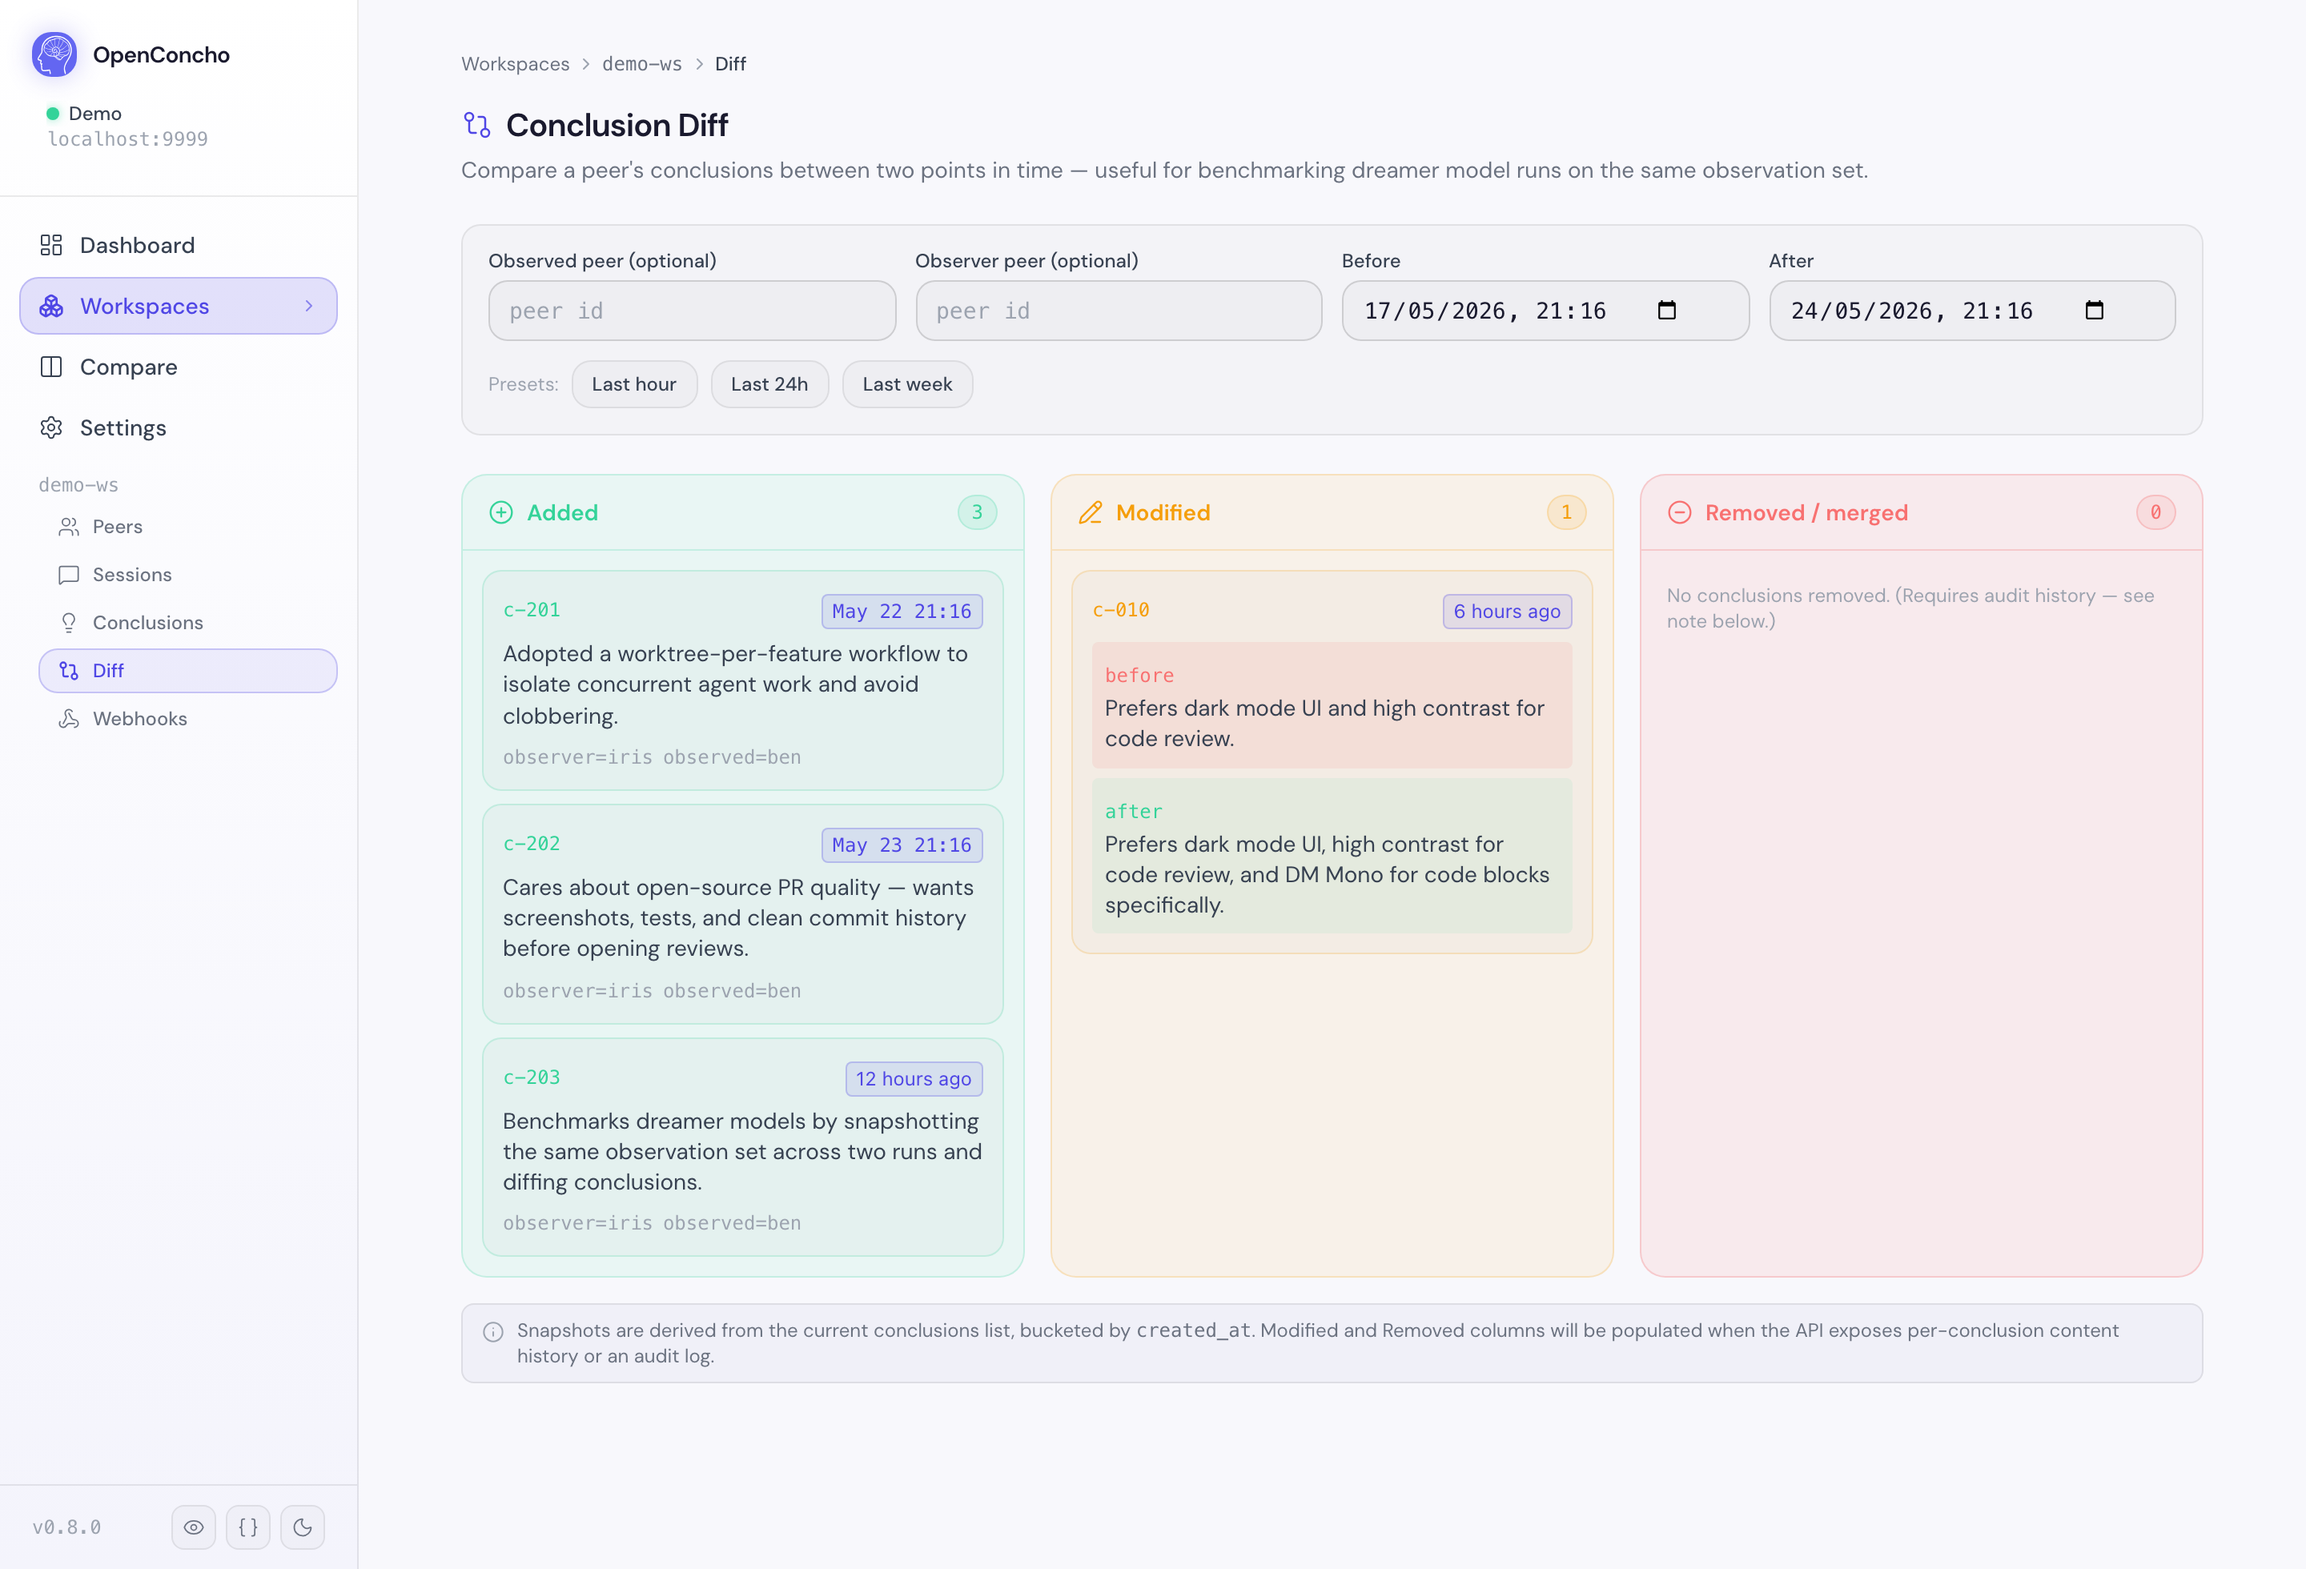
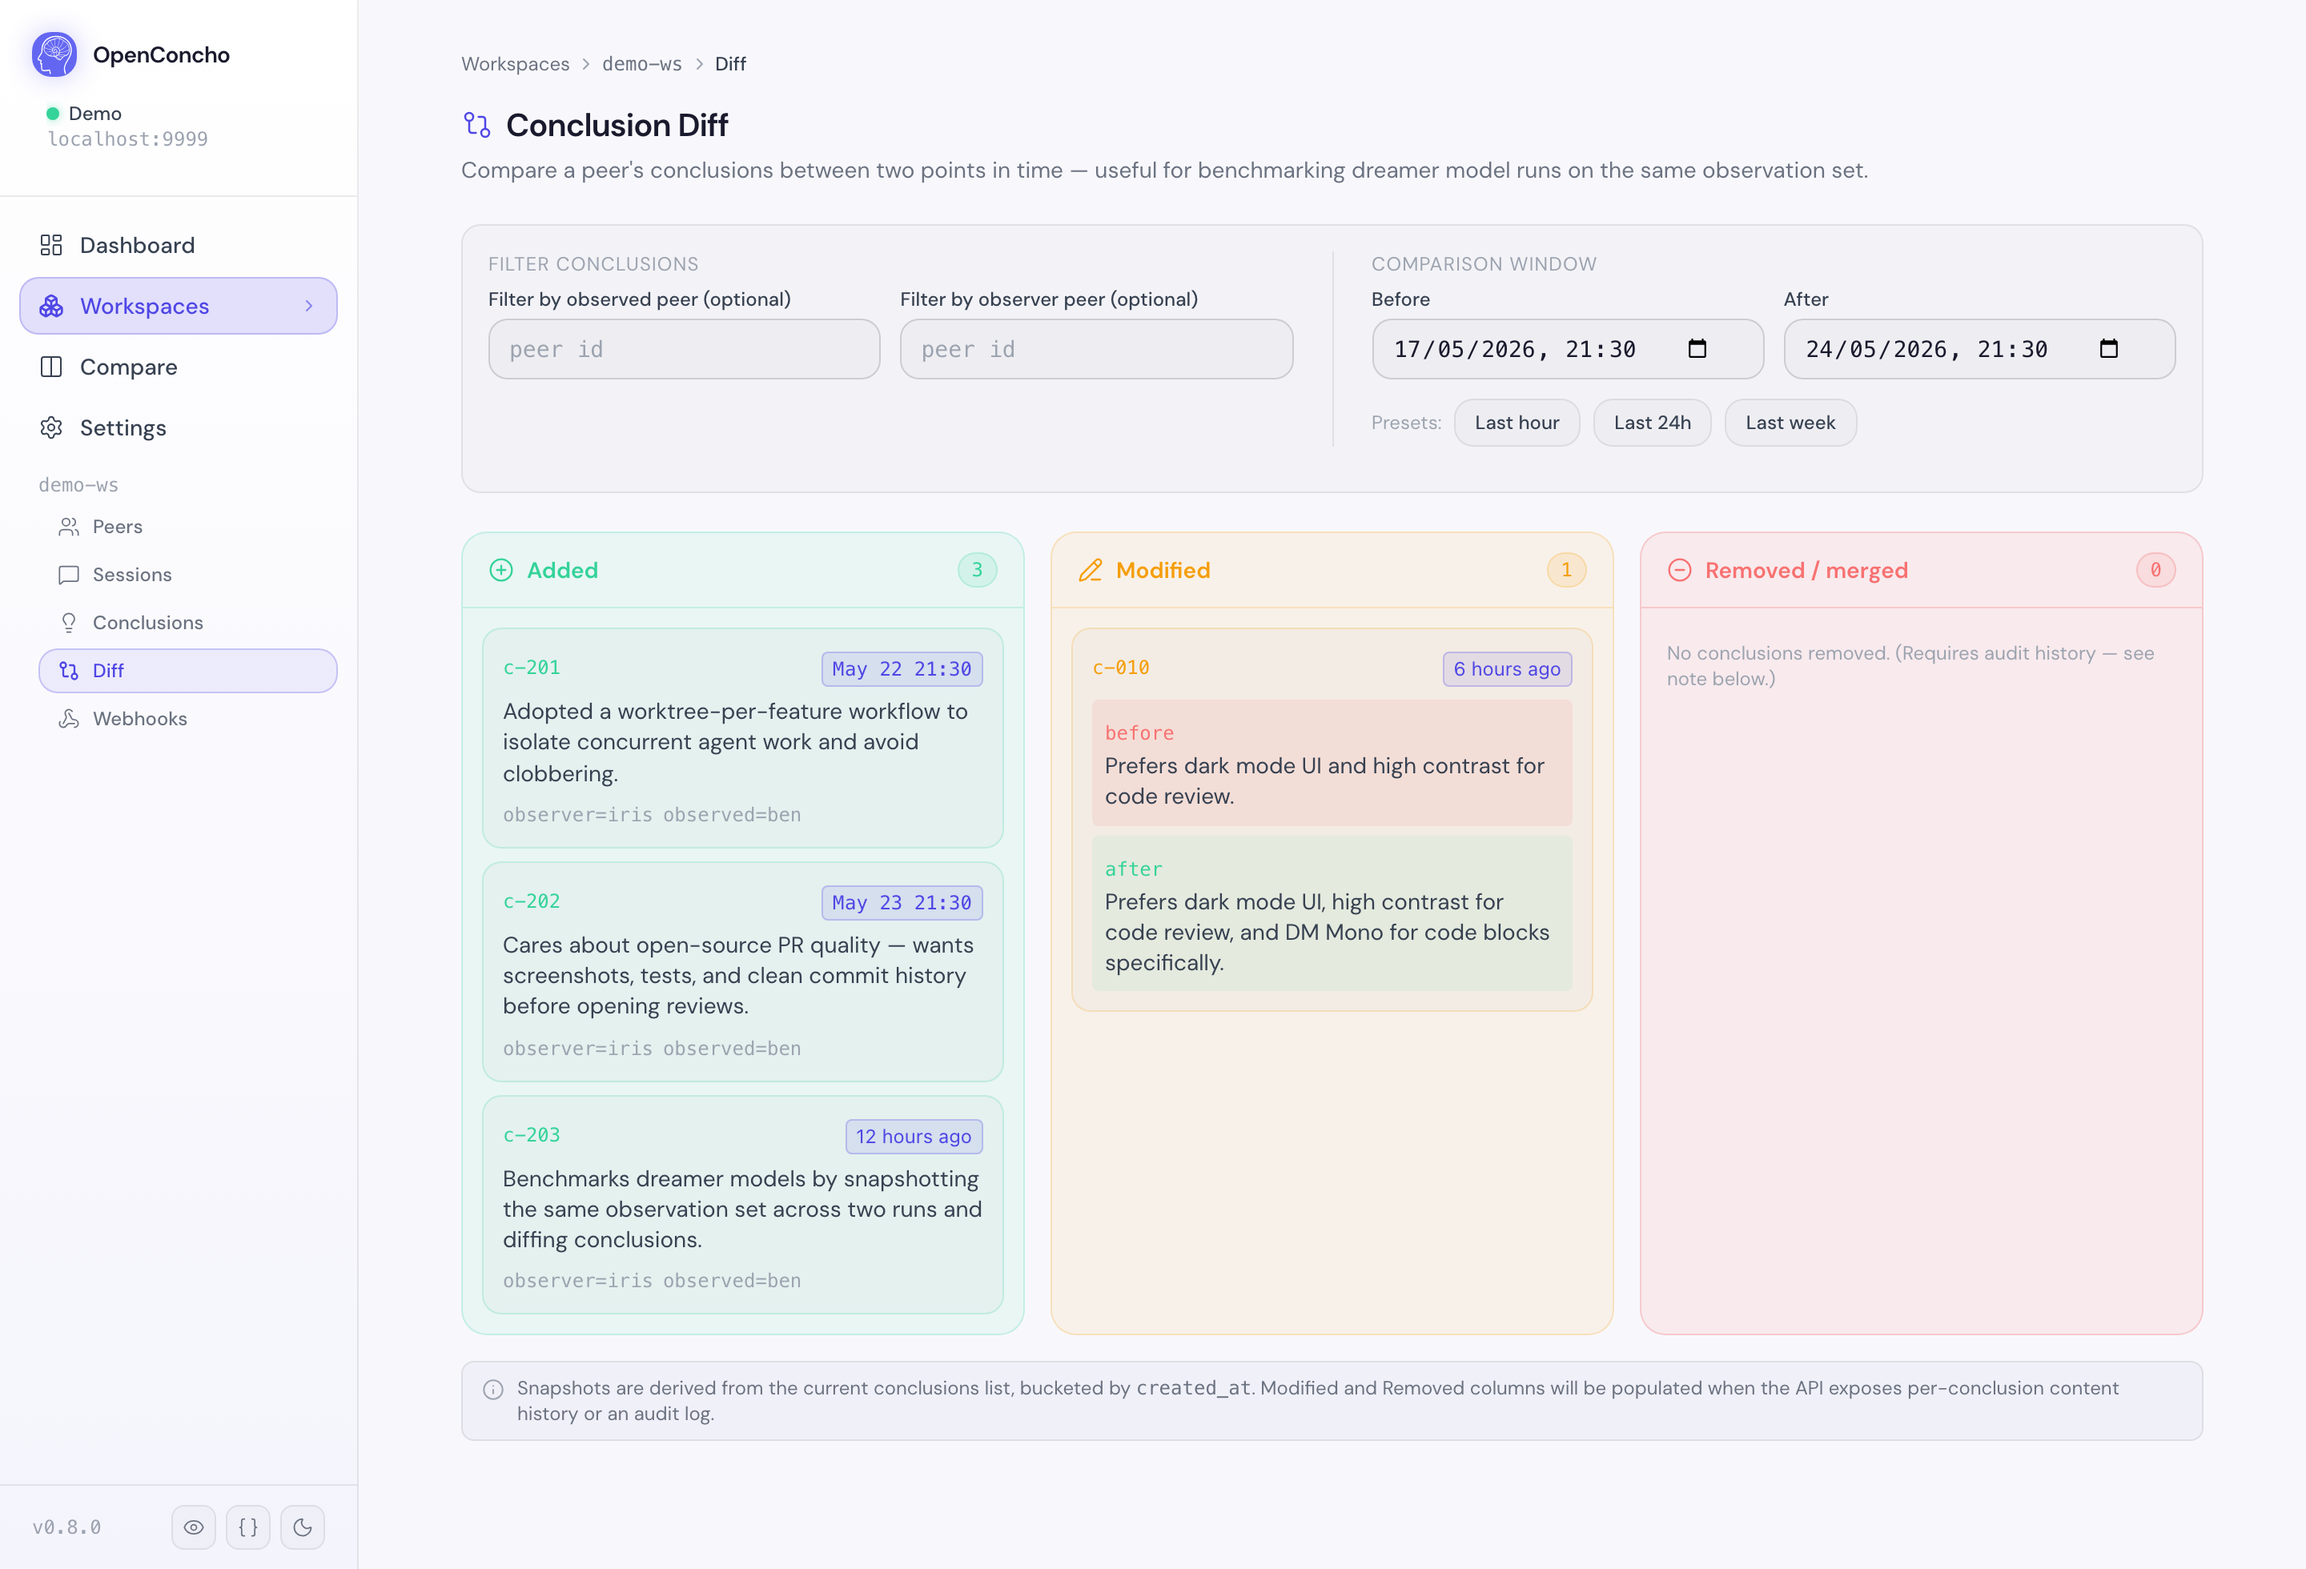
fix(web): clarify diff form — split into Filter / Comparison-window groups
Reviewer feedback pointed out the two peer inputs looked like the axes of
comparison, when in fact they're filters that narrow which conclusions go
into both snapshots. The actual comparison is between the two timestamps.

Restructure the form into two side-by-side fieldsets with section
captions, separated by a vertical divider:

- "FILTER CONCLUSIONS" — observed-peer / observer-peer (relabelled
  "Filter by observed peer" / "Filter by observer peer" so they read as
  filters in isolation too).
- "COMPARISON WINDOW" — before / after + presets, since the temporal
  comparison is what this view is actually about.

Updates the three reference screenshots.

diff --git a/packages/web/src/components/conclusions/ConclusionDiffView.tsx b/packages/web/src/components/conclusions/ConclusionDiffView.tsx
@@ -237,67 +237,99 @@ export function ConclusionDiffView() {
 				transition={{ delay: 0.05 }}
 				className="rounded-xl p-4 mb-6 theme-card"
 			>
-				<div className="grid grid-cols-1 md:grid-cols-2 lg:grid-cols-4 gap-3 mb-3">
-					<div>
-						<Label htmlFor="observed-id" className="mb-1.5">
-							Observed peer (optional)
-						</Label>
-						<Input
-							id="observed-id"
-							value={observedId}
-							onChange={(e) => setObservedId(e.target.value)}
-							placeholder="peer id"
-							className="font-mono"
-						/>
-					</div>
-					<div>
-						<Label htmlFor="observer-id" className="mb-1.5">
-							Observer peer (optional)
-						</Label>
-						<Input
-							id="observer-id"
-							value={observerId}
-							onChange={(e) => setObserverId(e.target.value)}
-							placeholder="peer id"
-							className="font-mono"
-						/>
-					</div>
-					<div>
-						<Label htmlFor="before-ts" className="mb-1.5">
-							Before
-						</Label>
-						<Input
-							id="before-ts"
-							type="datetime-local"
-							value={beforeInput}
-							onChange={(e) => setBeforeInput(e.target.value)}
-							className="font-mono [&::-webkit-datetime-edit]:flex-1 [&::-webkit-calendar-picker-indicator]:ml-auto [&::-webkit-calendar-picker-indicator]:cursor-pointer"
-						/>
-					</div>
-					<div>
-						<Label htmlFor="after-ts" className="mb-1.5">
-							After
-						</Label>
-						<Input
-							id="after-ts"
-							type="datetime-local"
-							value={afterInput}
-							onChange={(e) => setAfterInput(e.target.value)}
-							className="font-mono [&::-webkit-datetime-edit]:flex-1 [&::-webkit-calendar-picker-indicator]:ml-auto [&::-webkit-calendar-picker-indicator]:cursor-pointer"
-						/>
-					</div>
-				</div>
-				<div className="flex flex-wrap items-center gap-2">
-					<Caption style={{ color: "var(--text-4)" }}>Presets:</Caption>
-					<Button variant="surface" size="sm" onClick={() => applyPreset("last-hour")}>
-						Last hour
-					</Button>
-					<Button variant="surface" size="sm" onClick={() => applyPreset("last-24h")}>
-						Last 24h
-					</Button>
-					<Button variant="surface" size="sm" onClick={() => applyPreset("last-week")}>
-						Last week
-					</Button>
+				<div className="flex flex-col lg:flex-row gap-4 lg:gap-6 mb-3">
+					{/* Filter conclusions: narrow what goes into the snapshots */}
+					<fieldset className="flex-1 min-w-0">
+						<Caption
+							as="legend"
+							className="uppercase tracking-wider mb-2"
+							style={{ color: "var(--text-4)" }}
+						>
+							Filter conclusions
+						</Caption>
+						<div className="grid grid-cols-1 md:grid-cols-2 gap-3">
+							<div>
+								<Label htmlFor="observed-id" className="mb-1.5">
+									Filter by observed peer (optional)
+								</Label>
+								<Input
+									id="observed-id"
+									value={observedId}
+									onChange={(e) => setObservedId(e.target.value)}
+									placeholder="peer id"
+									className="font-mono"
+								/>
+							</div>
+							<div>
+								<Label htmlFor="observer-id" className="mb-1.5">
+									Filter by observer peer (optional)
+								</Label>
+								<Input
+									id="observer-id"
+									value={observerId}
+									onChange={(e) => setObserverId(e.target.value)}
+									placeholder="peer id"
+									className="font-mono"
+								/>
+							</div>
+						</div>
+					</fieldset>
+
+					{/* Vertical divider between the two groups (desktop only) */}
+					<div
+						aria-hidden
+						className="hidden lg:block w-px self-stretch"
+						style={{ background: "var(--border)" }}
+					/>
+
+					{/* Comparison window: the two timestamps being diffed */}
+					<fieldset className="flex-1 min-w-0">
+						<Caption
+							as="legend"
+							className="uppercase tracking-wider mb-2"
+							style={{ color: "var(--text-4)" }}
+						>
+							Comparison window
+						</Caption>
+						<div className="grid grid-cols-1 md:grid-cols-2 gap-3">
+							<div>
+								<Label htmlFor="before-ts" className="mb-1.5">
+									Before
+								</Label>
+								<Input
+									id="before-ts"
+									type="datetime-local"
+									value={beforeInput}
+									onChange={(e) => setBeforeInput(e.target.value)}
+									className="font-mono [&::-webkit-datetime-edit]:flex-1 [&::-webkit-calendar-picker-indicator]:ml-auto [&::-webkit-calendar-picker-indicator]:cursor-pointer"
+								/>
+							</div>
+							<div>
+								<Label htmlFor="after-ts" className="mb-1.5">
+									After
+								</Label>
+								<Input
+									id="after-ts"
+									type="datetime-local"
+									value={afterInput}
+									onChange={(e) => setAfterInput(e.target.value)}
+									className="font-mono [&::-webkit-datetime-edit]:flex-1 [&::-webkit-calendar-picker-indicator]:ml-auto [&::-webkit-calendar-picker-indicator]:cursor-pointer"
+								/>
+							</div>
+						</div>
+						<div className="flex flex-wrap items-center gap-2 mt-3">
+							<Caption style={{ color: "var(--text-4)" }}>Presets:</Caption>
+							<Button variant="surface" size="sm" onClick={() => applyPreset("last-hour")}>
+								Last hour
+							</Button>
+							<Button variant="surface" size="sm" onClick={() => applyPreset("last-24h")}>
+								Last 24h
+							</Button>
+							<Button variant="surface" size="sm" onClick={() => applyPreset("last-week")}>
+								Last week
+							</Button>
+						</div>
+					</fieldset>
 				</div>
 				{showInvalid && (
 					<div
